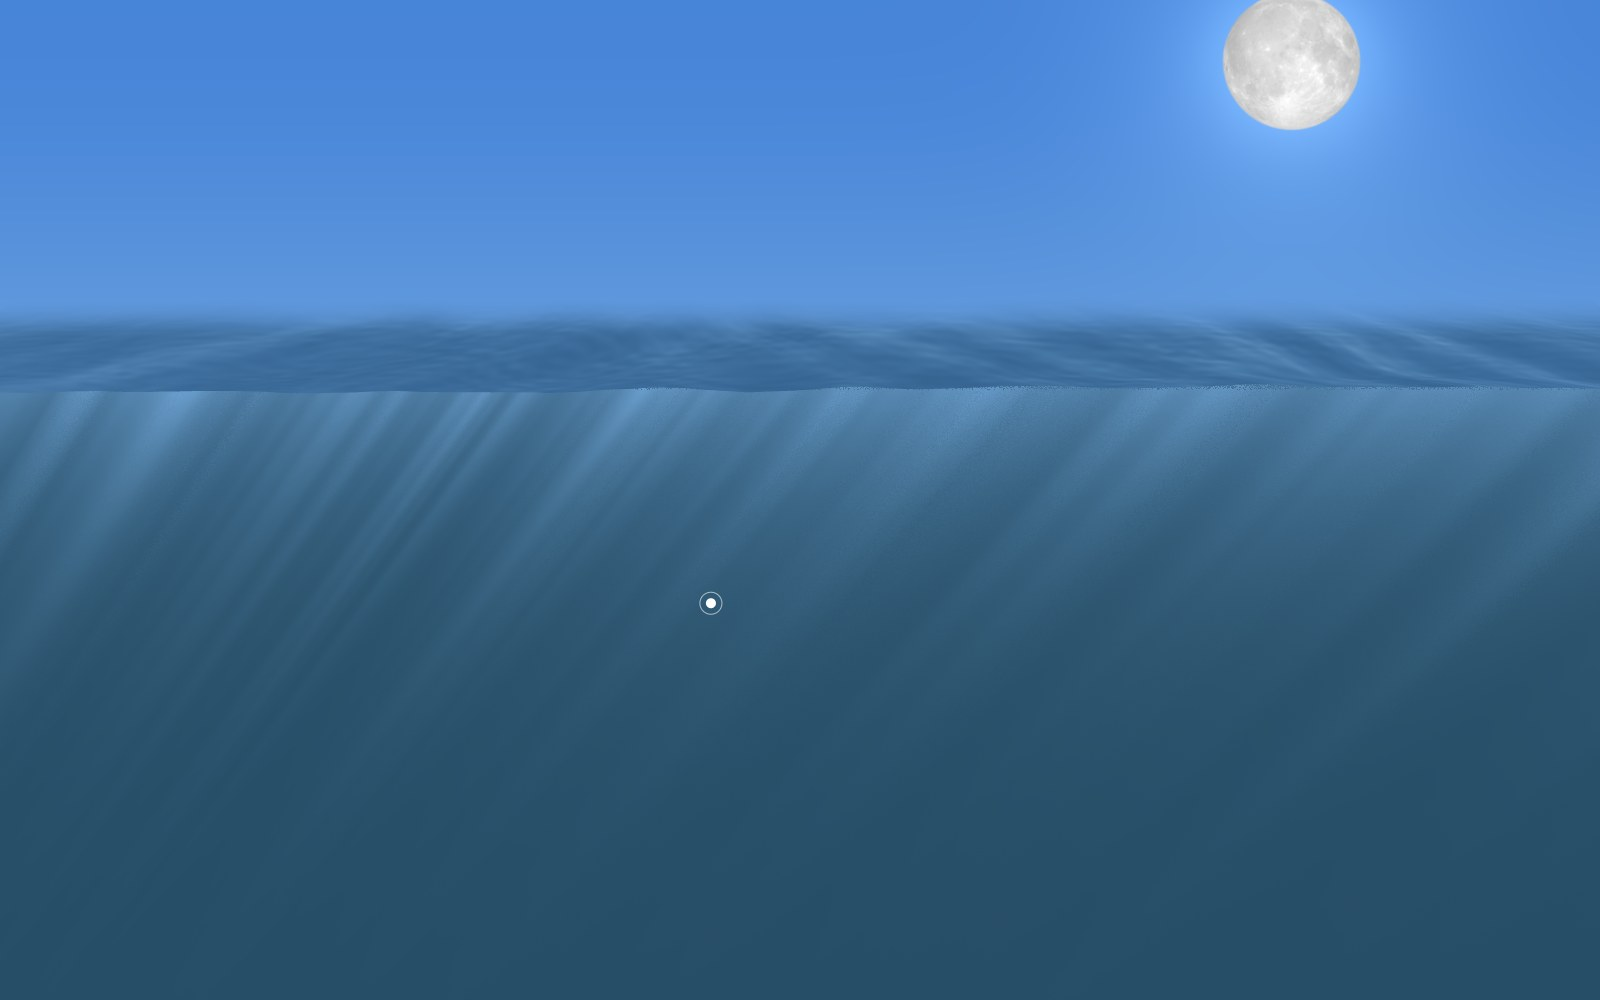
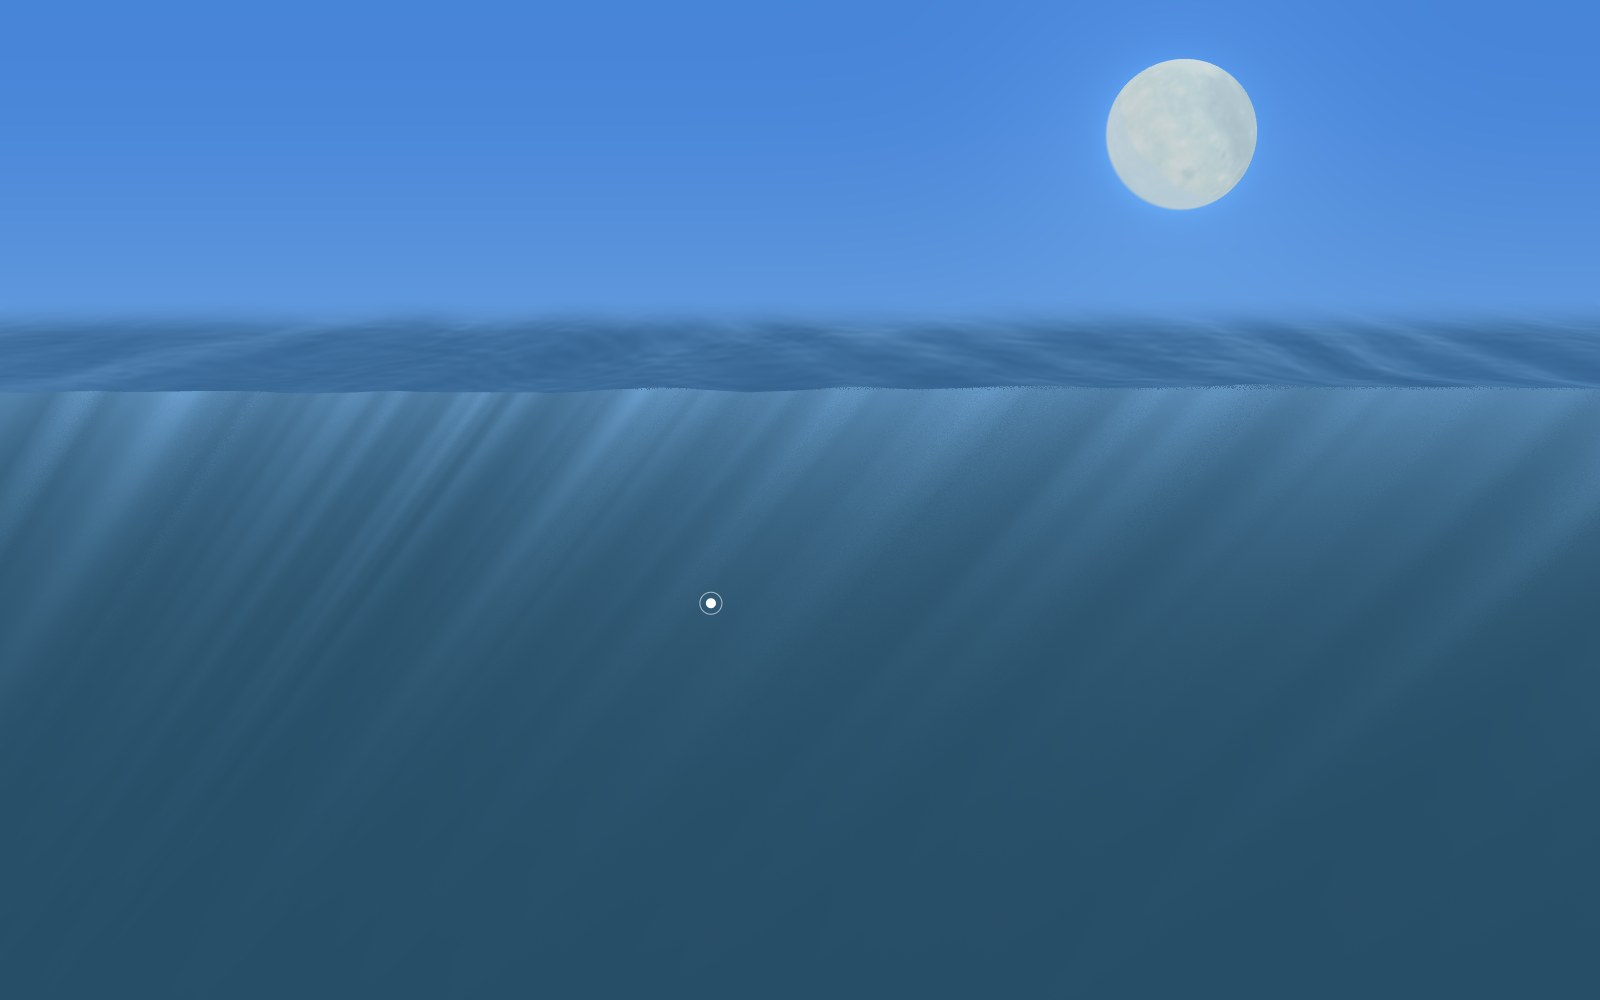
Cut and Above: draw the real 3D moon, as in Below
The moon in their sky was a flat disc tinted like its reflection, so its
colours changed from Below. Now the same mesh, material, palette and spin are
drawn between the sky and the water, with Below's halo round it; the flat
face is kept only for its reflection on the waves.

Changed region(s): [[0.6875, 0.0, 0.875, 0.217]]

diff --git a/public/games/flymetothemoon/index.html b/public/games/flymetothemoon/index.html
@@ -862,7 +862,7 @@
   const DEFAULT_MOON = new THREE.Vector3(0, 0.574, 0.819);
   let view = 'below';
   const views = (() => {
-    const V = { eyeZ: 0, eyeDepth: 3, cutA: Math.atan2(0.574, 0.819), cutR: 7, side: false, aboveMoon: new THREE.Vector3(0, 0.16, 1).normalize() };
+    const V = { eyeZ: 0, eyeDepth: 3, cutA: Math.atan2(0.574, 0.819), cutR: 5.5, side: false, aboveMoon: new THREE.Vector3(0, 0.16, 1).normalize() };
     const own = {
       uZr: { value: new THREE.Vector2() }, uSunDir: { value: new THREE.Vector3() }, uCamPos: { value: new THREE.Vector3() },
       uEyeP: { value: new THREE.Vector3(0, -3, 0) }, uMoonScr: { value: new THREE.Vector3() }, uSideLight: { value: 0 },
@@ -880,14 +880,15 @@
         vec3 a = texture2D(uMoonMap, uv).rgb;
         return uImage * (0.45 + 0.9*dot(a, vec3(0.3, 0.55, 0.15))) * (0.78 + 0.22*n.z);
       }
-      // the scene's sky in direction d, with the moon in direction m: its two glows, and its face
-      vec3 skyDome(vec3 d, vec3 m){
+      // the scene's sky in direction d, with the moon in direction m: the halo round it as in Below, a little of
+      // the sky's glow, and (only in reflections, face > 0) its face as its image in the water is coloured
+      vec3 skyDome(vec3 d, vec3 m, float face){
         vec3 sky = mix(uSkyLow, uSkyHigh, smoothstep(0.0, 0.7, d.y));
-        float c = dot(d, m);
-        sky += uGlowA*exp((c - 1.0)/0.03) + uGlowB*exp((c - 1.0)/0.006);
         vec3 rt = normalize(cross(vec3(0.0, 1.0, 0.0), m)), up = cross(m, rt);
-        vec2 q = vec2(dot(d, rt), dot(d, up)) / sqrt(1.0 - MOON_COS*MOON_COS);
-        return mix(sky, moonFace(q), smoothstep(1.0, 0.96, length(q)) * step(0.0, c));
+        vec2 q = vec2(dot(d, rt), dot(d, up)) / sqrt(1.0 - MOON_COS*MOON_COS);   // in moon radii
+        float c = dot(d, m), r = length(q) * step(0.0, c) + (1.0 - step(0.0, c)) * 1e3;
+        sky += uHalo*uHaloGain*exp(-max(r - 0.99, 0.0)/0.19) + uGlowA*0.5*exp((c - 1.0)/0.03);
+        return mix(sky, moonFace(q), face * smoothstep(1.0, 0.96, r));
       }`;
     const VS = `varying vec3 vP; void main(){ vP = (modelMatrix * vec4(position, 1.0)).xyz; gl_Position = projectionMatrix * viewMatrix * vec4(vP, 1.0); }`;
     const mat = (frag, extra = {}) => new THREE.ShaderMaterial(Object.assign({ uniforms: U, vertexShader: VS, fragmentShader: HEAD + frag, side: THREE.DoubleSide }, extra));
@@ -946,13 +947,12 @@
     const cutSky = mat(`
       varying vec3 vP;
       void main(){
-        // the preset's sky, low to high, and the moon where it was put, with the scene's two glows round it
+        // the preset's sky, low to high, with the halo round the moon (the moon itself is the real one, drawn over it)
         vec2 f = gl_FragCoord.xy;
         vec3 sky = mix(uSkyLow, uSkyHigh, smoothstep(0.3, 1.0, f.y / uRes.y));
-        vec2 q = (f - uMoonScr.xy) / uMoonScr.z;
-        float r2 = dot(q, q);
-        sky += uGlowA*exp(-r2/6.0) + uGlowB*exp(-r2/1.2);
-        gl_FragColor = vec4(mix(sky, moonFace(q), smoothstep(1.0, 0.96, sqrt(r2))), 1.0);
+        float r = length(f - uMoonScr.xy) / uMoonScr.z;
+        sky += uHalo*uHaloGain*exp(-max(r - 0.99, 0.0)/0.19) + uGlowA*0.5*exp(-r*r/6.0);
+        gl_FragColor = vec4(sky, 1.0);
       }`, { depthWrite: false });
     const cutFace = mat(`
       varying vec3 vP;
@@ -1005,7 +1005,8 @@
         gl_FragColor = vec4(col, 1.0 - smoothstep(2.6, 5.0, vP.x));   // the far side fades into the sky
       }`, { transparent: true, depthWrite: false });
     const skyPlane = new THREE.Mesh(new THREE.PlaneGeometry(2000, 2000), cutSky); skyPlane.rotation.y = -Math.PI / 2; skyPlane.position.set(300, 0, 0);
-    cutScene.add(skyPlane, new THREE.Mesh(face, cutFace), new THREE.Mesh(top, cutTop));
+    const cutSkyScene = new THREE.Scene(); cutSkyScene.add(skyPlane);
+    cutScene.add(new THREE.Mesh(face, cutFace), new THREE.Mesh(top, cutTop));
     const ov = document.getElementById('overlay'), og = ov.getContext('2d');
     function drawCutOverlay() {
       const dpr = Math.min(devicePixelRatio || 1, 2), W = Math.round(innerWidth * dpr), H = Math.round(innerHeight * dpr);
@@ -1031,15 +1032,28 @@
       for (let i = 0; i <= NF; i++) { const z = pz0 + (pz1 - pz0) * i / NF; fp.set([0, hAt(0, z), z], i * 3); fp.set([0, MID, z], (i + NF + 1) * 3); fp.set([0, DEEP, z], (i + 2 * (NF + 1)) * 3); }
       for (let i = 0; i <= NZ; i++) { const z = z0 + (z1 - z0) * i / NZ; for (let j = 0; j <= NX; j++) { const x = XB * j / NX; tp.set([x, hAt(x, z), z], (j * (NZ + 1) + i) * 3); } }
       for (const g of [face, top]) { g.attributes.position.needsUpdate = true; g.computeBoundingSphere(); }
-      renderer.setRenderTarget(null); renderer.clear(); renderer.render(cutScene, cutCam);
+      renderer.setRenderTarget(null); renderer.clear();
+      renderer.render(cutSkyScene, cutCam);
+      const mc = new THREE.Vector3(...M), rpx = Math.min(innerWidth, innerHeight) * 0.07;
+      drawMoon(cutCam, mc, rpx * mc.distanceTo(cutCam.position) * 2 * Math.tan(THREE.MathUtils.degToRad(cutCam.fov / 2)) / innerHeight);
+      renderer.render(cutScene, cutCam);
       drawCutOverlay();
+    }
+
+    // the real moon (the same mesh, material, palette and spin as in Below) drawn into a view: centred at c,
+    // radius r, between the sky and the water
+    function drawMoon(cam, c, r) {
+      const p0 = moonGroup.position.clone(), s0 = moonGroup.scale.clone(), f0 = moonUniforms.uMoonFade.value;
+      moonGroup.position.copy(c); moonGroup.scale.setScalar(r / MOON_R); moonUniforms.uMoonFade.value = 1;
+      renderer.render(scene, cam);
+      moonGroup.position.copy(p0); moonGroup.scale.copy(s0); moonUniforms.uMoonFade.value = f0;
     }
 
     // ---- Above ----
     const aboveCam = new THREE.PerspectiveCamera(50, 1, 0.1, 2000), aboveScene = new THREE.Scene();
     const dome = new THREE.Mesh(new THREE.SphereGeometry(900, 48, 24), mat(`
       varying vec3 vP;
-      void main(){ gl_FragColor = vec4(skyDome(normalize(vP - uCamPos), SKY_MOON), 1.0); }`, { side: THREE.BackSide, depthWrite: false }));
+      void main(){ gl_FragColor = vec4(skyDome(normalize(vP - uCamPos), SKY_MOON, 0.0), 1.0); }`, { side: THREE.BackSide, depthWrite: false }));
     const sea = new THREE.Mesh(new THREE.PlaneGeometry(1600, 1600, 1, 1).rotateX(-Math.PI / 2), mat(`
       varying vec3 vP;
       void main(){
@@ -1049,15 +1063,16 @@
         R.y = abs(R.y);
         float F = 0.02 + 0.98*pow(1.0 - max(dot(-Vd, N), 0.0), 5.0);
         vec3 body = mix(hazeColour(vec3(0.0, 0.0, 1.0), 0.5), murkColour(), 0.25*uMurk);
-        vec3 col = mix(body, skyDome(R, SKY_MOON), F);
+        vec3 col = mix(body, skyDome(R, SKY_MOON, 1.0), F);
         col += uImage * F * 3.0 * exp((dot(R, SKY_MOON) - 1.0)/0.0025);   // the moon sparkling on the wave facets: its path of light
         col *= 1.0 - clamp(sl.z*0.6, -0.2, 0.3);   // the broad waves' crests and troughs, as in the scene's light bands
         // a long fade into the sky toward the horizon
-        vec3 horizon = skyDome(normalize(vec3(Vd.x, 0.0, Vd.z)), SKY_MOON);
+        vec3 horizon = skyDome(normalize(vec3(Vd.x, 0.0, Vd.z)), SKY_MOON, 0.0);
         col = mix(col, horizon, 1.0 - exp(-dist/70.0));
         gl_FragColor = vec4(col, 1.0);
       }`));
-    aboveScene.add(dome, sea);
+    const aboveSkyScene = new THREE.Scene(); aboveSkyScene.add(dome);
+    aboveScene.add(sea);
     function placeAbove() {
       aboveCam.aspect = innerWidth / innerHeight; aboveCam.position.set(0, 2.2, 0); aboveCam.lookAt(0, 2.2 - Math.tan(0.14) * 10, 10);
       aboveCam.updateProjectionMatrix(); aboveCam.updateMatrixWorld();
@@ -1067,7 +1082,10 @@
       uniforms.uEyeDepth.value = 3; uniforms.uEyeOff.value.set(0, 0); uniforms.uSkyMoon.value.copy(V.aboveMoon);
       own.uCamPos.value.copy(aboveCam.position); own.uEyeP.value.set(0, -3, 0);
       dome.position.copy(aboveCam.position); sea.position.set(aboveCam.position.x, 0, aboveCam.position.z);
-      renderer.setRenderTarget(null); renderer.clear(); renderer.render(aboveScene, aboveCam);
+      renderer.setRenderTarget(null); renderer.clear();
+      renderer.render(aboveSkyScene, aboveCam);
+      drawMoon(aboveCam, aboveCam.position.clone().addScaledVector(V.aboveMoon, 600), 600 * Math.sqrt(1 - 0.995 * 0.995));   // the scene's own size (MOON_COS)
+      renderer.render(aboveScene, aboveCam);
       const ms = toScreen(...aboveCam.position.clone().addScaledVector(V.aboveMoon, 100).toArray(), aboveCam);
       V.moonScr = ms;
       if (ov.width) { og.setTransform(1, 0, 0, 1, 0, 0); og.clearRect(0, 0, ov.width, ov.height); }

diff --git a/README.md b/README.md
@@ -121,6 +121,8 @@ Two more views put the moon in the sky above the water, where you can move it. B
 
 ![Cut, with god rays seen from the side](docs/screenshots/25-cut-side.jpg)
 
+In both, the moon in the sky is the real one, the same 3D moon as in Below, with its colours, shading and spin.
+
 **Above** looks across the water from just above it. The moon hangs over the sea with its path of light broken up on the waves, and the surface fades into the sky over a long gradient toward the horizon. Drag to move the moon.
 
 ![Above, at night](docs/screenshots/26-above.jpg)
